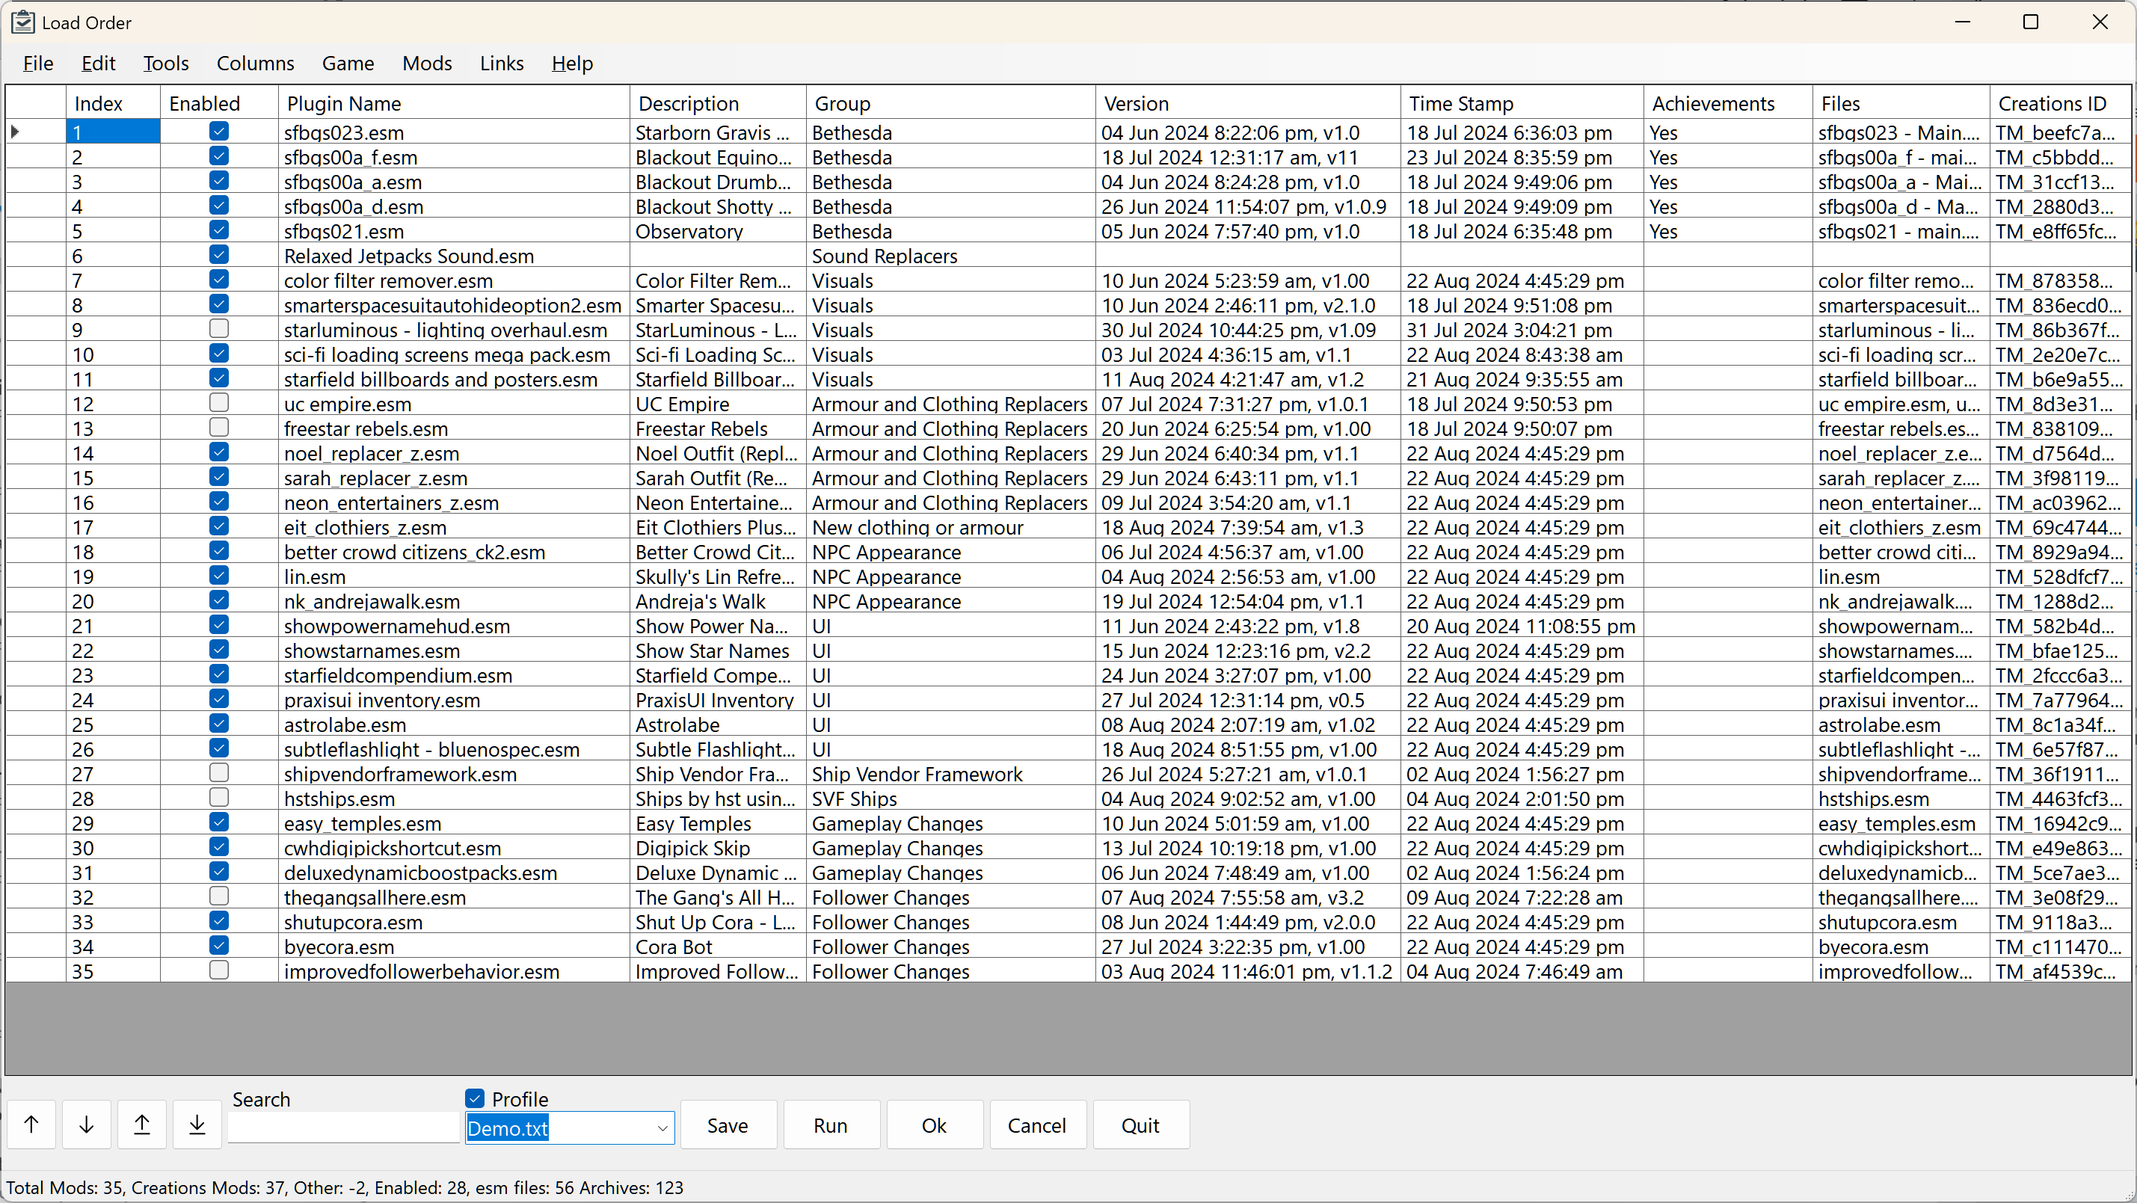
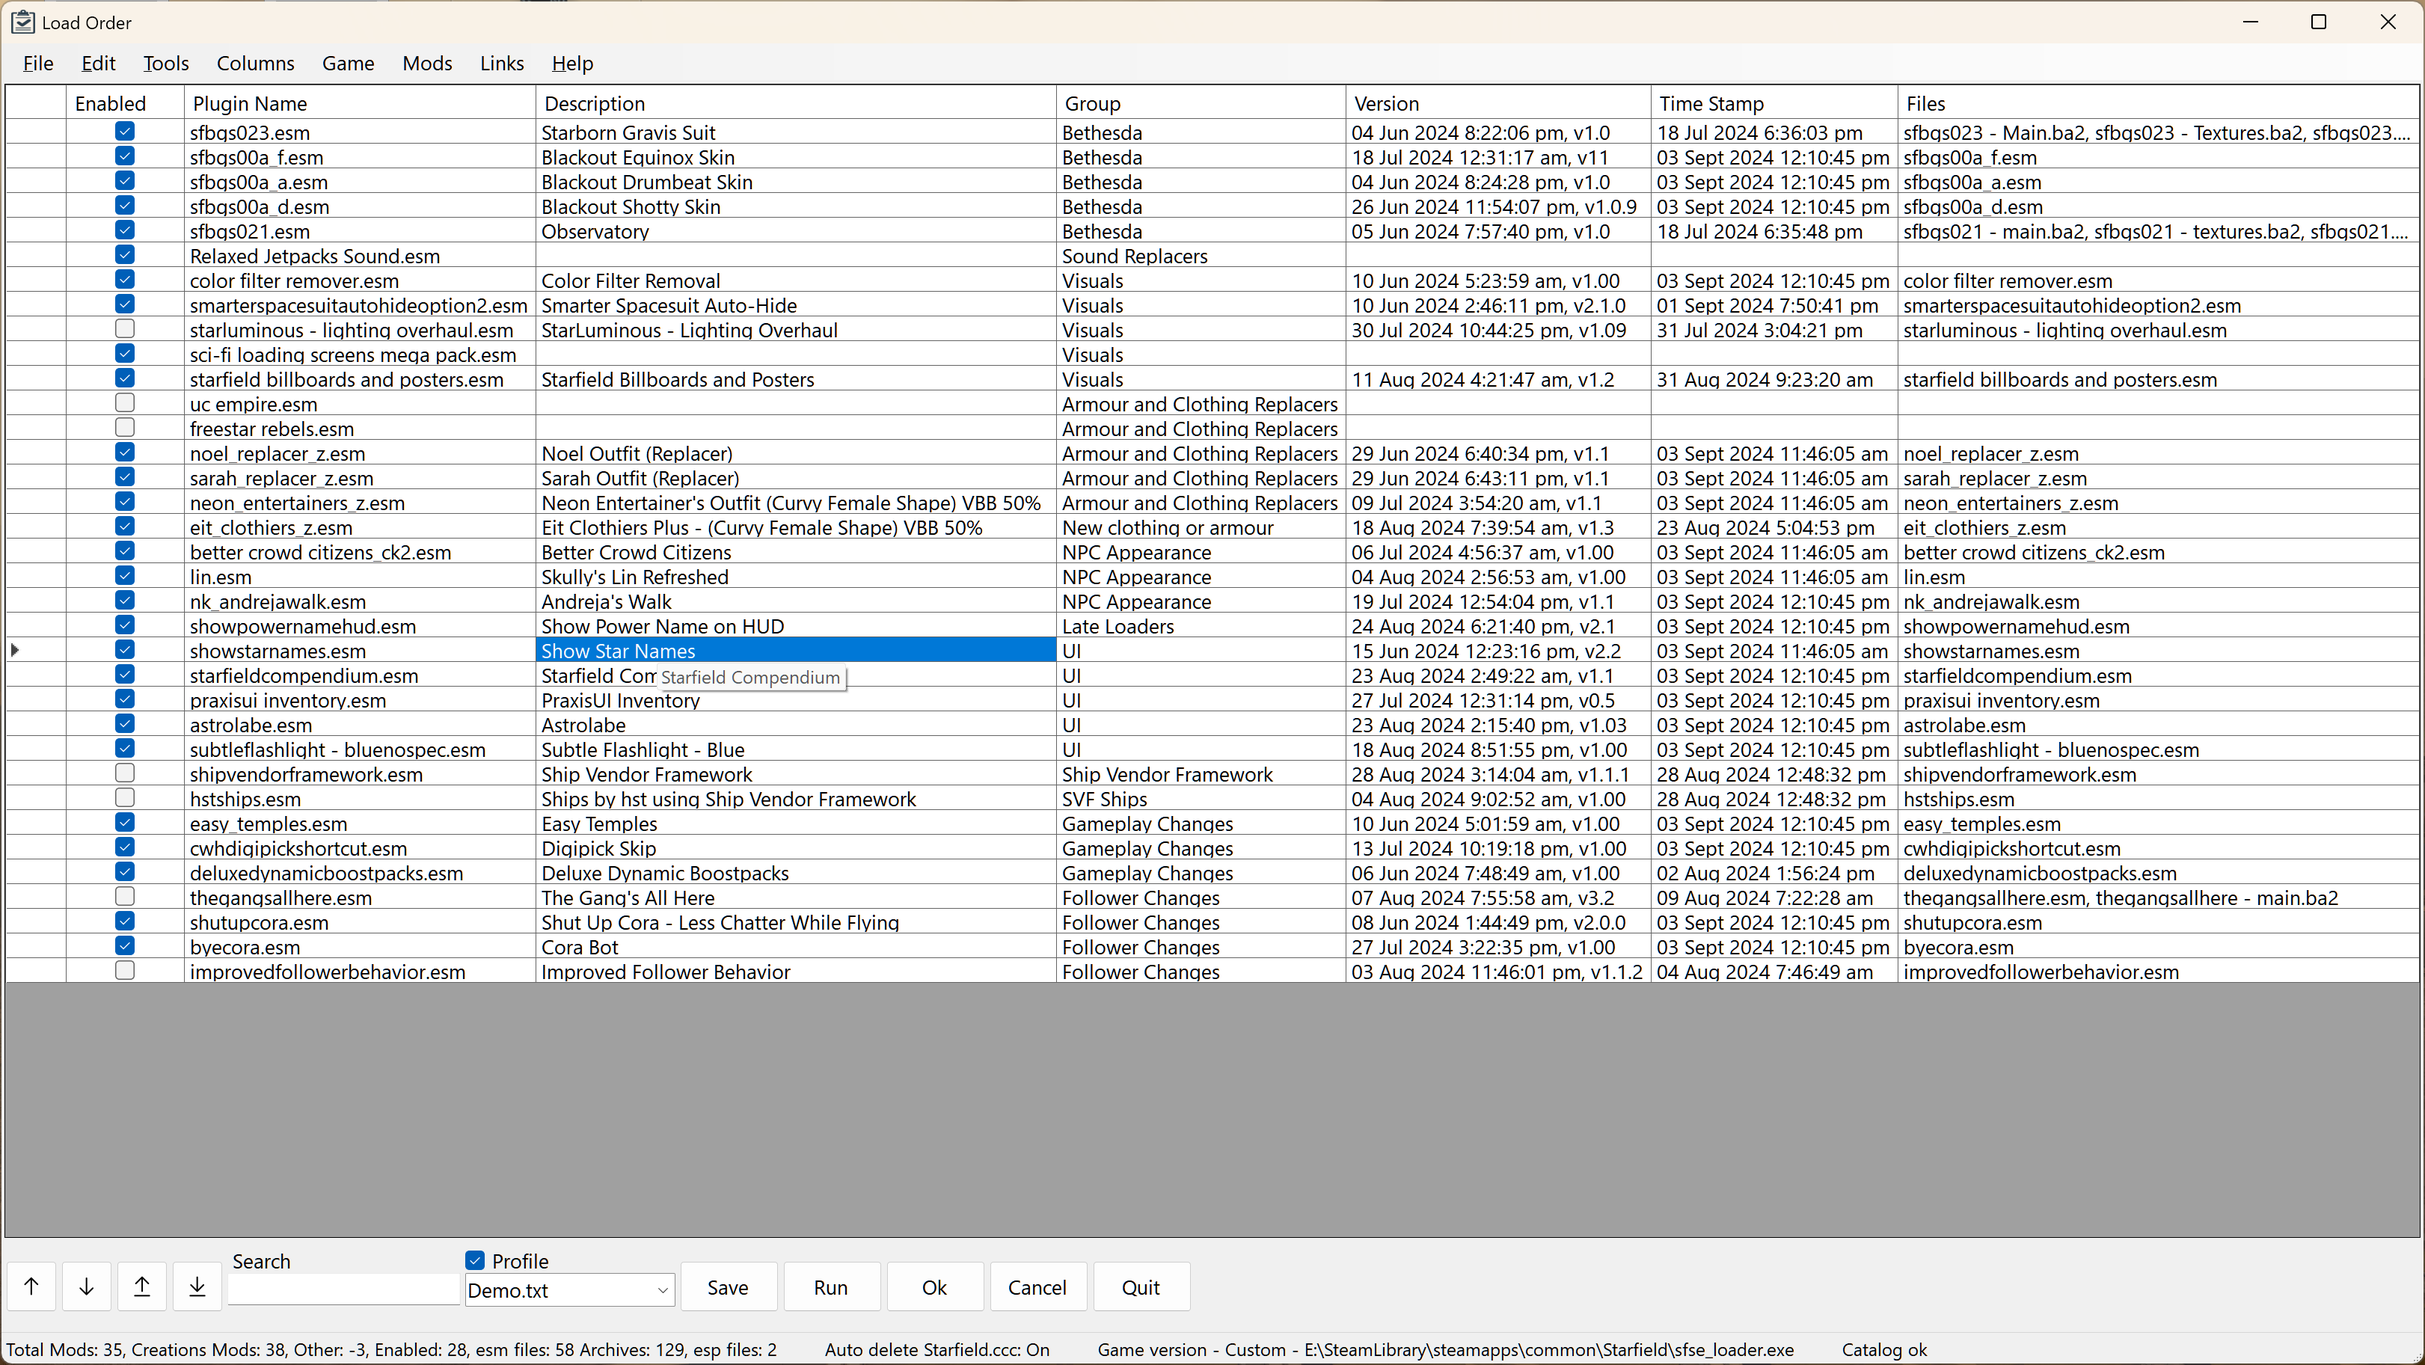
Add File menu option to overwrite StarfieldCustom.ini

diff --git a/Load Order Editor/frmLoadOrder.Designer.cs b/Load Order Editor/frmLoadOrder.Designer.cs
@@ -85,6 +85,8 @@
             toolStripSeparator19 = new System.Windows.Forms.ToolStripSeparator();
             toolStripMenuDeleteCCC = new System.Windows.Forms.ToolStripMenuItem();
             toolStripSeparator17 = new System.Windows.Forms.ToolStripSeparator();
+            toolStripMenuResetStarfieldCustom = new System.Windows.Forms.ToolStripMenuItem();
+            toolStripSeparator23 = new System.Windows.Forms.ToolStripSeparator();
             exitToolStripMenuItem = new System.Windows.Forms.ToolStripMenuItem();
             editToolStripMenuItem = new System.Windows.Forms.ToolStripMenuItem();
             toolStripMenuDeleteLine = new System.Windows.Forms.ToolStripMenuItem();
@@ -142,6 +144,7 @@
             toolStripMenuBGSX = new System.Windows.Forms.ToolStripMenuItem();
             toolStripMenuGitHub = new System.Windows.Forms.ToolStripMenuItem();
             helpToolStripMenuItem = new System.Windows.Forms.ToolStripMenuItem();
+            toolStripMenuShortcuts = new System.Windows.Forms.ToolStripMenuItem();
             aboutToolStripMenuItem = new System.Windows.Forms.ToolStripMenuItem();
             testToolStripMenu = new System.Windows.Forms.ToolStripMenuItem();
             toolStripMenuTestJson = new System.Windows.Forms.ToolStripMenuItem();
@@ -191,7 +194,7 @@
             dataGridView1.Columns.AddRange(new System.Windows.Forms.DataGridViewColumn[] { Index, ModEnabled, PluginName, Description, Group, Version, TimeStamp, Achievements, Files, CreationsID });
             dataGridView1.ContextMenuStrip = contextMenuDatagrid;
             dataGridView1.Dock = System.Windows.Forms.DockStyle.Fill;
-            dataGridView1.Location = new System.Drawing.Point(4, 45);
+            dataGridView1.Location = new System.Drawing.Point(4, 47);
             dataGridView1.Margin = new System.Windows.Forms.Padding(4, 5, 4, 5);
             dataGridView1.MultiSelect = false;
             dataGridView1.Name = "dataGridView1";
@@ -199,7 +202,7 @@
             dataGridView1.RowTemplate.Height = 33;
             dataGridView1.RowTemplate.Resizable = System.Windows.Forms.DataGridViewTriState.True;
             dataGridView1.ShowEditingIcon = false;
-            dataGridView1.Size = new System.Drawing.Size(1765, 848);
+            dataGridView1.Size = new System.Drawing.Size(1765, 846);
             dataGridView1.TabIndex = 0;
             dataGridView1.CellDoubleClick += dataGridView1_CellDoubleClick;
             dataGridView1.Sorted += dataGridView1_Sorted;
@@ -472,15 +475,15 @@
             menuStrip1.Items.AddRange(new System.Windows.Forms.ToolStripItem[] { fileToolStripMenuItem, editToolStripMenuItem, toolsToolStripMenuItem, toolStripMenuColumns, toolStripMenuGame, toolStripMenuMods, toolStripMenuLinks, helpToolStripMenuItem, testToolStripMenu });
             menuStrip1.Location = new System.Drawing.Point(0, 0);
             menuStrip1.Name = "menuStrip1";
-            menuStrip1.Size = new System.Drawing.Size(1773, 40);
+            menuStrip1.Size = new System.Drawing.Size(1773, 42);
             menuStrip1.TabIndex = 7;
             menuStrip1.Text = "menuStrip1";
             // 
             // fileToolStripMenuItem
             // 
-            fileToolStripMenuItem.DropDownItems.AddRange(new System.Windows.Forms.ToolStripItem[] { newToolStripMenuItem, openToolStripMenuItem, toolStripSeparator, toolStripMenuBackup, toolStripMenuRestore, toolStripSeparator5, saveToolStripMenuItem, saveAsToolStripMenuItem, toolStripSeparator1, toolStripMenuExportActive, toolStripSeparator2, toolStripMenuExploreAppData, toolStripMenuExploreData, toolStripMenuExploreGameDocs, toolStripSeparator3, toolStripMenuEditPlugins, toolStripSeparator19, toolStripMenuDeleteCCC, toolStripSeparator17, exitToolStripMenuItem });
+            fileToolStripMenuItem.DropDownItems.AddRange(new System.Windows.Forms.ToolStripItem[] { newToolStripMenuItem, openToolStripMenuItem, toolStripSeparator, toolStripMenuBackup, toolStripMenuRestore, toolStripSeparator5, saveToolStripMenuItem, saveAsToolStripMenuItem, toolStripSeparator1, toolStripMenuExportActive, toolStripSeparator2, toolStripMenuExploreAppData, toolStripMenuExploreData, toolStripMenuExploreGameDocs, toolStripSeparator3, toolStripMenuEditPlugins, toolStripSeparator19, toolStripMenuDeleteCCC, toolStripSeparator17, toolStripMenuResetStarfieldCustom, toolStripSeparator23, exitToolStripMenuItem });
             fileToolStripMenuItem.Name = "fileToolStripMenuItem";
-            fileToolStripMenuItem.Size = new System.Drawing.Size(71, 36);
+            fileToolStripMenuItem.Size = new System.Drawing.Size(71, 38);
             fileToolStripMenuItem.Text = "&File";
             // 
             // newToolStripMenuItem
@@ -611,6 +614,18 @@
             toolStripSeparator17.Name = "toolStripSeparator17";
             toolStripSeparator17.Size = new System.Drawing.Size(494, 6);
             // 
+            // toolStripMenuResetStarfieldCustom
+            // 
+            toolStripMenuResetStarfieldCustom.Name = "toolStripMenuResetStarfieldCustom";
+            toolStripMenuResetStarfieldCustom.Size = new System.Drawing.Size(497, 44);
+            toolStripMenuResetStarfieldCustom.Text = "Reset StarfieldCustom.ini";
+            toolStripMenuResetStarfieldCustom.Click += toolStripMenuResetStarfieldCustom_Click;
+            // 
+            // toolStripSeparator23
+            // 
+            toolStripSeparator23.Name = "toolStripSeparator23";
+            toolStripSeparator23.Size = new System.Drawing.Size(494, 6);
+            // 
             // exitToolStripMenuItem
             // 
             exitToolStripMenuItem.Name = "exitToolStripMenuItem";
@@ -622,7 +637,7 @@
             // 
             editToolStripMenuItem.DropDownItems.AddRange(new System.Windows.Forms.ToolStripItem[] { toolStripMenuDeleteLine });
             editToolStripMenuItem.Name = "editToolStripMenuItem";
-            editToolStripMenuItem.Size = new System.Drawing.Size(74, 36);
+            editToolStripMenuItem.Size = new System.Drawing.Size(74, 38);
             editToolStripMenuItem.Text = "&Edit";
             // 
             // toolStripMenuDeleteLine
@@ -637,7 +652,7 @@
             // 
             toolsToolStripMenuItem.DropDownItems.AddRange(new System.Windows.Forms.ToolStripItem[] { optionsToolStripMenuItem, toolStripSeparator18, toolStripMenuSetPath, toolStripSeparator14, toolStripMenuSteam, toolStripMenuMS, toolStripMenuCustom, toolStripSeparator16, toolStripMenuLootPath, toolStripSeparator13, toolStripMenuLoadingScreen, toolStripMenuLoadScreenPreview, toolStripSeparator20, toolStripMenuCatalog, toolStripSeparator21, toolStripMenuAutoDelccc, toolStripSeparator22, toolStripMenuProfilesOn });
             toolsToolStripMenuItem.Name = "toolsToolStripMenuItem";
-            toolsToolStripMenuItem.Size = new System.Drawing.Size(89, 36);
+            toolsToolStripMenuItem.Size = new System.Drawing.Size(89, 38);
             toolsToolStripMenuItem.Text = "&Tools";
             // 
             // optionsToolStripMenuItem
@@ -763,7 +778,7 @@
             // 
             toolStripMenuColumns.DropDownItems.AddRange(new System.Windows.Forms.ToolStripItem[] { toolStripMenuIndex, toolStripMenuAchievements, toolStripMenuCreationsID, toolStripMenuFiles, toolStripMenuGroup });
             toolStripMenuColumns.Name = "toolStripMenuColumns";
-            toolStripMenuColumns.Size = new System.Drawing.Size(128, 36);
+            toolStripMenuColumns.Size = new System.Drawing.Size(128, 38);
             toolStripMenuColumns.Text = "Columns";
             // 
             // toolStripMenuIndex
@@ -811,7 +826,7 @@
             // 
             toolStripMenuGame.DropDownItems.AddRange(new System.Windows.Forms.ToolStripItem[] { toolStripMenuRunSteam, toolStripMenuRunMS, toolStripMenuRunCustom });
             toolStripMenuGame.Name = "toolStripMenuGame";
-            toolStripMenuGame.Size = new System.Drawing.Size(96, 36);
+            toolStripMenuGame.Size = new System.Drawing.Size(96, 38);
             toolStripMenuGame.Text = "Game";
             // 
             // toolStripMenuRunSteam
@@ -841,7 +856,7 @@
             // 
             toolStripMenuMods.DropDownItems.AddRange(new System.Windows.Forms.ToolStripItem[] { toolStripMenuEnableAll, toolStripMenuDisableAll, toolStripSeparator6, toolStripMenuAdd, toolStripMenuDelete, toolStripSeparator8, toolStripMenuAutoClean, toolStripMenuScanMods, toolStripMenuCleanup, toolStripSeparator7, toolStripMenuInstall, toolStripMenuUninstall, toolStripSeparator9, toolStripMenuLoot, toolStripMenuLootSort, toolStripSeparator15, toolStripMenuStats });
             toolStripMenuMods.Name = "toolStripMenuMods";
-            toolStripMenuMods.Size = new System.Drawing.Size(94, 36);
+            toolStripMenuMods.Size = new System.Drawing.Size(94, 38);
             toolStripMenuMods.Text = "Mods";
             // 
             // toolStripMenuEnableAll
@@ -961,7 +976,7 @@
             // 
             toolStripMenuLinks.DropDownItems.AddRange(new System.Windows.Forms.ToolStripItem[] { toolStripMenuCreations, toolStripMenuNexus, toolStripMenuBGSStarfield, toolStripMenuBGSX, toolStripMenuGitHub });
             toolStripMenuLinks.Name = "toolStripMenuLinks";
-            toolStripMenuLinks.Size = new System.Drawing.Size(87, 36);
+            toolStripMenuLinks.Size = new System.Drawing.Size(87, 38);
             toolStripMenuLinks.Text = "Links";
             // 
             // toolStripMenuCreations
@@ -1001,16 +1016,23 @@
             // 
             // helpToolStripMenuItem
             // 
-            helpToolStripMenuItem.DropDownItems.AddRange(new System.Windows.Forms.ToolStripItem[] { aboutToolStripMenuItem });
+            helpToolStripMenuItem.DropDownItems.AddRange(new System.Windows.Forms.ToolStripItem[] { toolStripMenuShortcuts, aboutToolStripMenuItem });
             helpToolStripMenuItem.Name = "helpToolStripMenuItem";
-            helpToolStripMenuItem.Size = new System.Drawing.Size(84, 36);
+            helpToolStripMenuItem.Size = new System.Drawing.Size(84, 38);
             helpToolStripMenuItem.Text = "&Help";
+            // 
+            // toolStripMenuShortcuts
+            // 
+            toolStripMenuShortcuts.Name = "toolStripMenuShortcuts";
+            toolStripMenuShortcuts.Size = new System.Drawing.Size(291, 44);
+            toolStripMenuShortcuts.Text = "Shortcut keys";
+            toolStripMenuShortcuts.Click += toolStripMenuShortcuts_Click;
             // 
             // aboutToolStripMenuItem
             // 
             aboutToolStripMenuItem.Image = (System.Drawing.Image)resources.GetObject("aboutToolStripMenuItem.Image");
             aboutToolStripMenuItem.Name = "aboutToolStripMenuItem";
-            aboutToolStripMenuItem.Size = new System.Drawing.Size(227, 44);
+            aboutToolStripMenuItem.Size = new System.Drawing.Size(291, 44);
             aboutToolStripMenuItem.Text = "&About...";
             aboutToolStripMenuItem.Click += aboutToolStripMenuItem_Click;
             // 
@@ -1018,7 +1040,7 @@
             // 
             testToolStripMenu.DropDownItems.AddRange(new System.Windows.Forms.ToolStripItem[] { toolStripMenuTestJson });
             testToolStripMenu.Name = "testToolStripMenu";
-            testToolStripMenu.Size = new System.Drawing.Size(76, 36);
+            testToolStripMenu.Size = new System.Drawing.Size(76, 38);
             testToolStripMenu.Text = "Test";
             testToolStripMenu.Visible = false;
             // 
@@ -1441,5 +1463,8 @@
         private System.Windows.Forms.ToolStripSeparator toolStripSeparator22;
         private System.Windows.Forms.ToolStripStatusLabel toolStripStatusTertiary;
         private System.Windows.Forms.ToolStripStatusLabel toolStripStatusDelCCC;
+        private System.Windows.Forms.ToolStripMenuItem toolStripMenuShortcuts;
+        private System.Windows.Forms.ToolStripMenuItem toolStripMenuResetStarfieldCustom;
+        private System.Windows.Forms.ToolStripSeparator toolStripSeparator23;
     }
 }

diff --git a/Load Order Editor/frmLoadOrder.cs b/Load Order Editor/frmLoadOrder.cs
@@ -7,7 +7,6 @@ using System.Drawing;
 using System.IO;
 using System.IO.Compression;
 using System.Linq;
-using System.Runtime.CompilerServices;
 using System.Threading;
 using System.Threading.Tasks;
 using System.Windows.Forms;
@@ -84,10 +83,13 @@ namespace Starfield_Tools
             if (Properties.Settings.Default.AutoDelccc)
             {
                 toolStripMenuAutoDelccc.Checked = true;
+                Delccc();
                 sbarCCCOn();
             }
             else
                 sbarCCCOff();
+
+            GameVersionDisplay();
 
             if (Properties.Settings.Default.ProflieOn)
             {
@@ -158,7 +160,7 @@ namespace Starfield_Tools
             }
 
             frmStarfieldTools StarfieldTools = new(); // Check the catalog
-            sbar2(StarfieldTools.CatalogStatus);
+            sbar3(StarfieldTools.CatalogStatus);
             if (StarfieldTools.CatalogStatus != null)
                 if (StarfieldTools.CatalogStatus.Contains("Error"))
                     StarfieldTools.Show(); // Show catalog fixer if catalog broken
@@ -186,7 +188,7 @@ namespace Starfield_Tools
             GetProfiles();
             GridSorted = false;
             isModified = false;
-            sbar2("");
+            GameVersionDisplay();
             sbar3("");
         }
 
@@ -203,7 +205,6 @@ namespace Starfield_Tools
             string loText;
 
             toolStripStatusTertiary.ForeColor = DefaultForeColor;
-
             btnOK.Enabled = true;
             btnSave.Enabled = true;
             saveToolStripMenuItem.Enabled = true;
@@ -421,8 +422,8 @@ Altenatively, run the game once to have it create a Plugins.txt file for you.", 
                 if (espCount > 0)
                     StatText += ", esp files: " + espCount.ToString();
 
-                sbar(StatText);
                 dataGridView1.EndEdit();
+                sbar(StatText);
             }
             catch
             {
@@ -1000,7 +1001,7 @@ Altenatively, run the game once to have it create a Plugins.txt file for you.", 
             removedMods = RemoveMissing();
             SavePlugings();
             InitDataGrid();
-            sbar2(addedMods.ToString() + " Mods added, " + removedMods.ToString() + " Mods removed");
+            sbar3(addedMods.ToString() + " Mods added, " + removedMods.ToString() + " Mods removed");
         }
 
         private void toolStripMenuAutoClean_Click(object sender, EventArgs e)
@@ -1720,6 +1721,56 @@ Altenatively, run the game once to have it create a Plugins.txt file for you.", 
         private void toolStripMenuCatalog_Click(object sender, EventArgs e)
         {
             CheckCatalog();
+        }
+
+        private void toolStripMenuShortcuts_Click(object sender, EventArgs e)
+        {
+            try
+            {
+                Process.Start("explorer.exe", "Common\\Shortcuts.txt");
+            }
+            catch (Exception ex)
+            {
+                MessageBox.Show(ex.Message, "Error opening Shortcuts.txt");
+            }
+        }
+
+        private void GameVersionDisplay()
+        {
+            switch (GameVersion)
+            {
+                case 0:
+                    sbar2("Game version - Steam");
+                    break;
+                case 1:
+                    sbar2("Game version - MS");
+                    break;
+                case 2:
+                    sbar2("Game version - Custom - " + Properties.Settings.Default.CustomEXE);
+                    break;
+            }
+
+        }
+
+        private void toolStripMenuResetStarfieldCustom_Click(object sender, EventArgs e)
+        {
+            DialogResult DialogResult = MessageBox.Show("This will restore your StarfieldCustom.ini to a basic version", "Are you sure?",
+                MessageBoxButtons.OKCancel, MessageBoxIcon.Stop);
+
+            if (DialogResult == DialogResult.OK)
+            {
+                try
+                {
+                    File.Copy("Common\\StarfieldCustom.ini", Environment.GetFolderPath(Environment.SpecialFolder.MyDocuments) + "\\My Games\\Starfield\\StarfieldCustom.ini", true);
+                    sbar3("StarfieldCustom.ini restored");
+                }
+                catch (Exception ex)
+                {
+                    MessageBox.Show(ex.Message, "Error restoring StarfieldCustom.ini");
+                }
+            }
+            else
+                sbar3("StarfieldCustom.ini not modified");
         }
     }
 }
